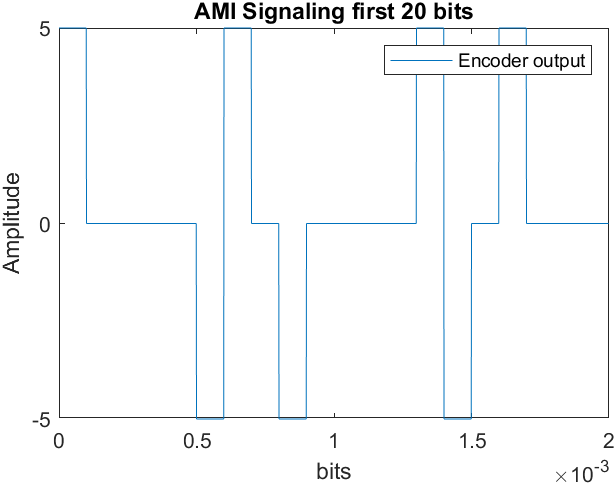
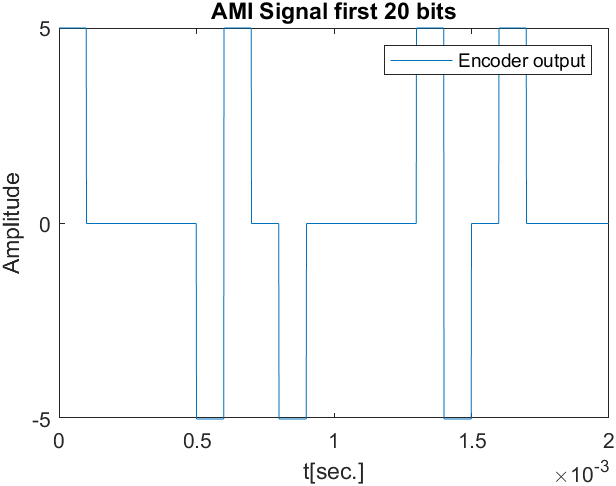
updating README.md

diff --git a/encoder.m b/encoder.m
@@ -29,7 +29,7 @@ function [PCM_t, PCM_signal] = encoder(Fs, R, bit_stream, pulse_amplitude, line_
             end
         end
         
-        figure_title = 'Manchester Signaling';
+        figure_title = 'Manchester Signal';
     
     elseif(line_code == 1)  %  AMI Signaling
         for i=1 : length(bit_stream)
@@ -39,12 +39,12 @@ function [PCM_t, PCM_signal] = encoder(Fs, R, bit_stream, pulse_amplitude, line_
             % for 0 bits, the PCM signal is already initialized by zeros
             end
         end
-        figure_title = 'AMI Signaling';
+        figure_title = 'AMI Signal';
     end
 
     nexttile
     plot(PCM_t(1: 20*n),PCM_signal(1 : 20*n));    %Plotting the first 10 bits only
-    xlabel('bits');
+    xlabel('t[sec.]');
     ylabel('Amplitude');
     title(strcat(figure_title, ' first 20 bits'));
     legend('Encoder output');

diff --git a/Main.m b/Main.m
@@ -63,3 +63,4 @@ regenerated_PCM_signal = regenerative_repeater(PCM_t, noisy_signal, n, line_code
 sound(restored_quantized_signal, Fs);
 
 %audiowrite("restored_signal.wav", restored_quantized_signal, Fs)
+%%uncomment to export the restored signal file
